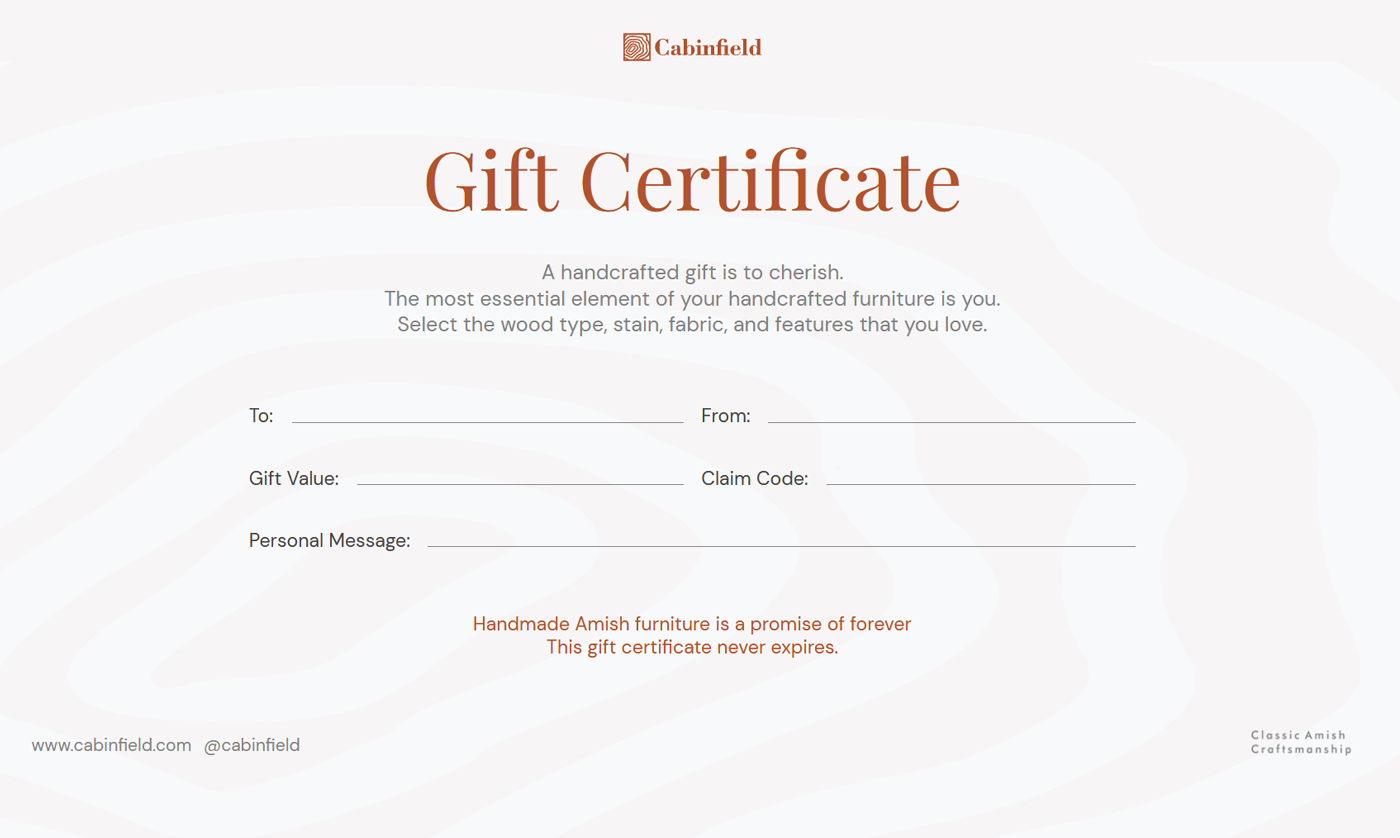
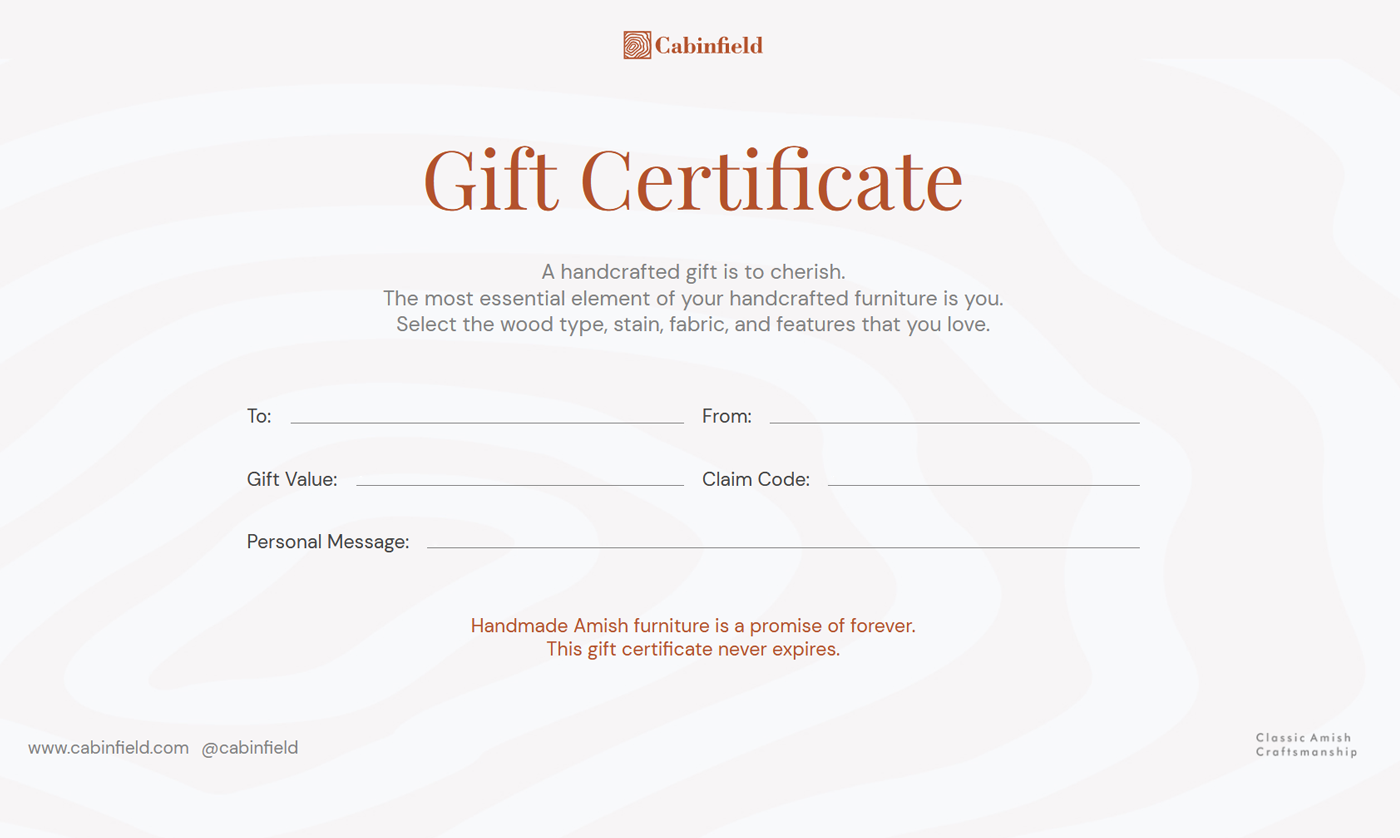
udpate git certificate

diff --git a/gift-certificate.php b/gift-certificate.php
@@ -50,7 +50,7 @@
                         </div>
                     </div>
                     <div class="tcenter footnote">
-                        <p>Handmade Amish furniture is a promise of forever</p>
+                        <p>Handmade Amish furniture is a promise of forever.</p>
                         <p>This gift certificate never expires.</p>
                     </div>
                 </div>
